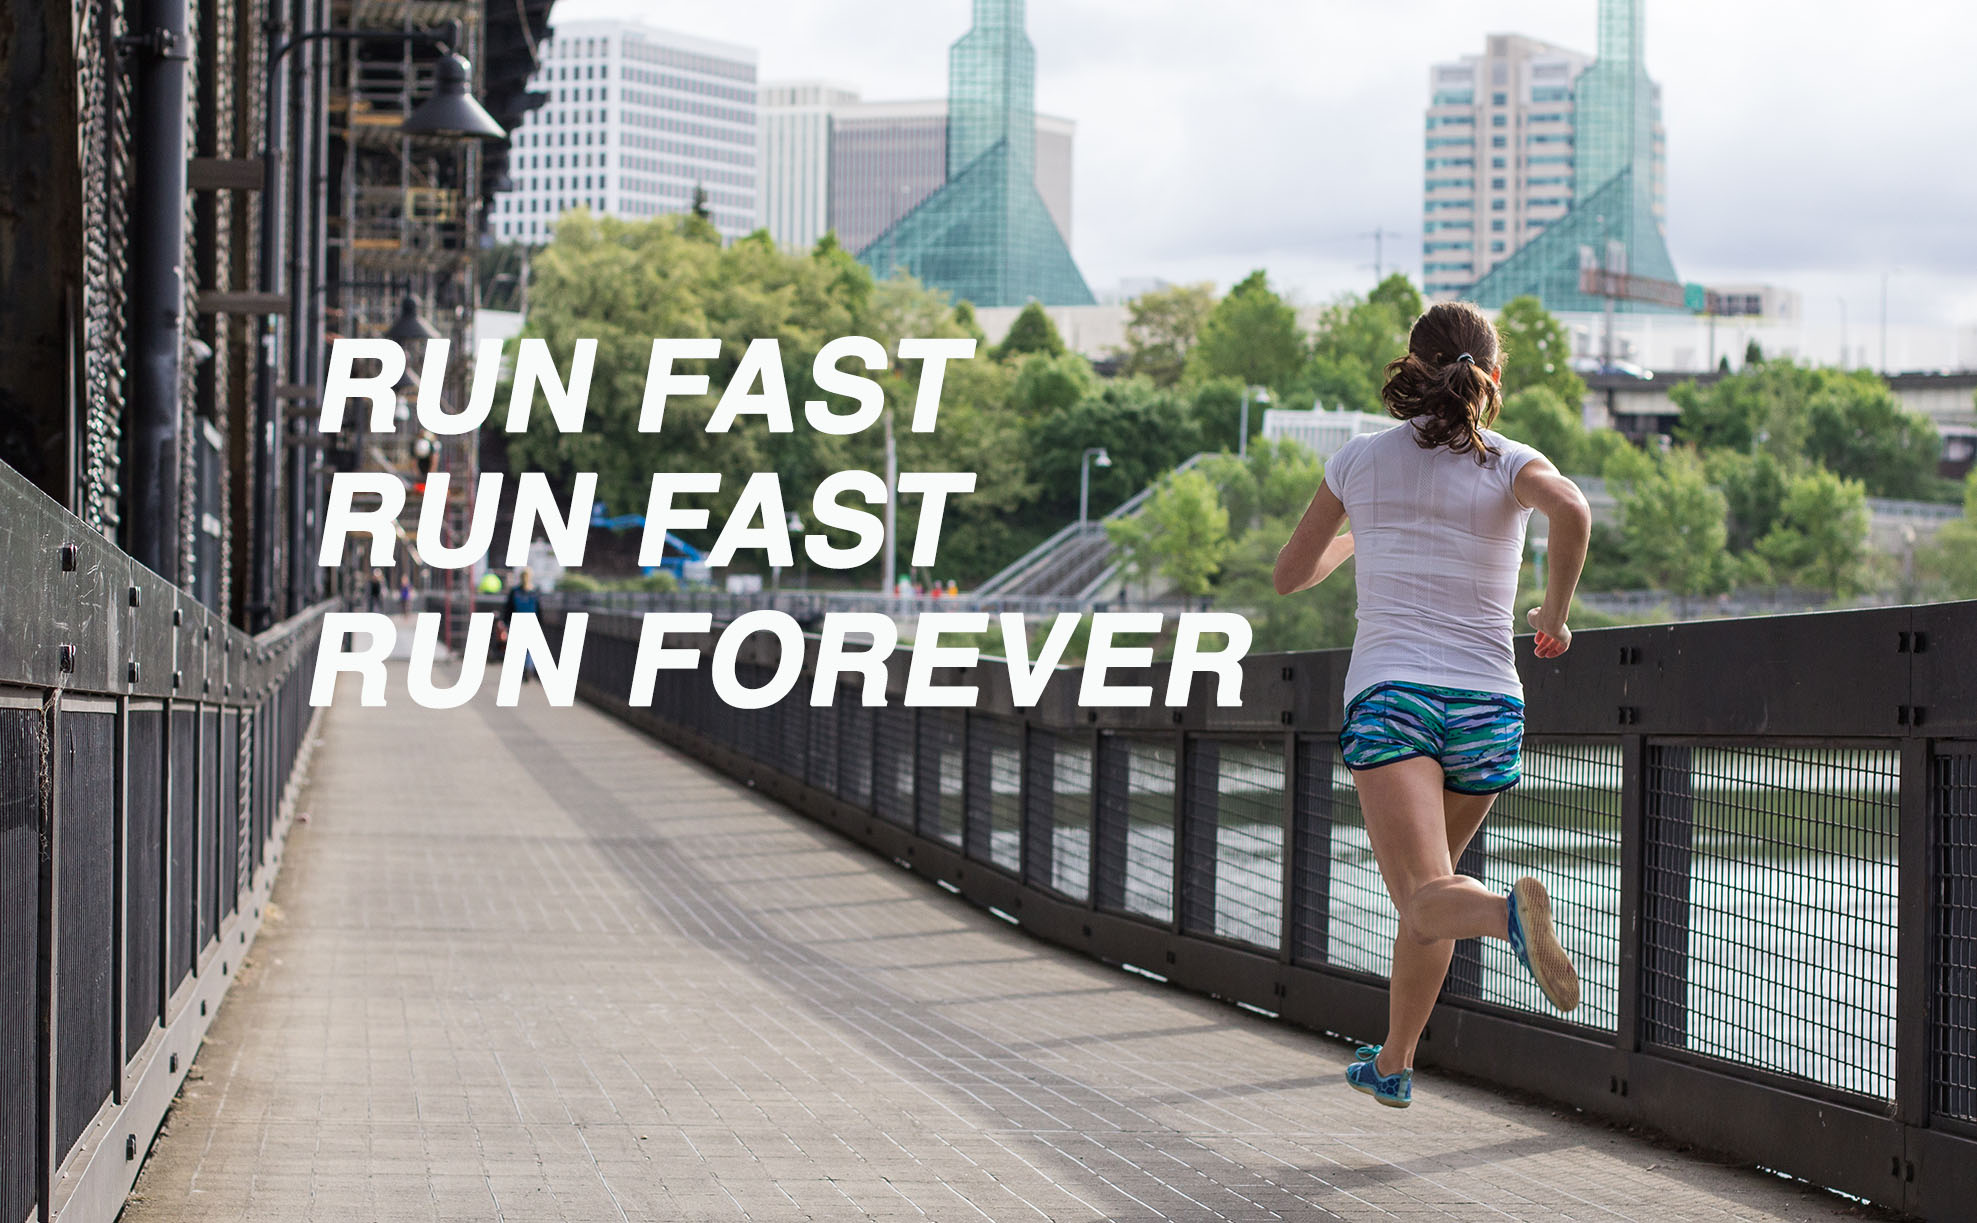
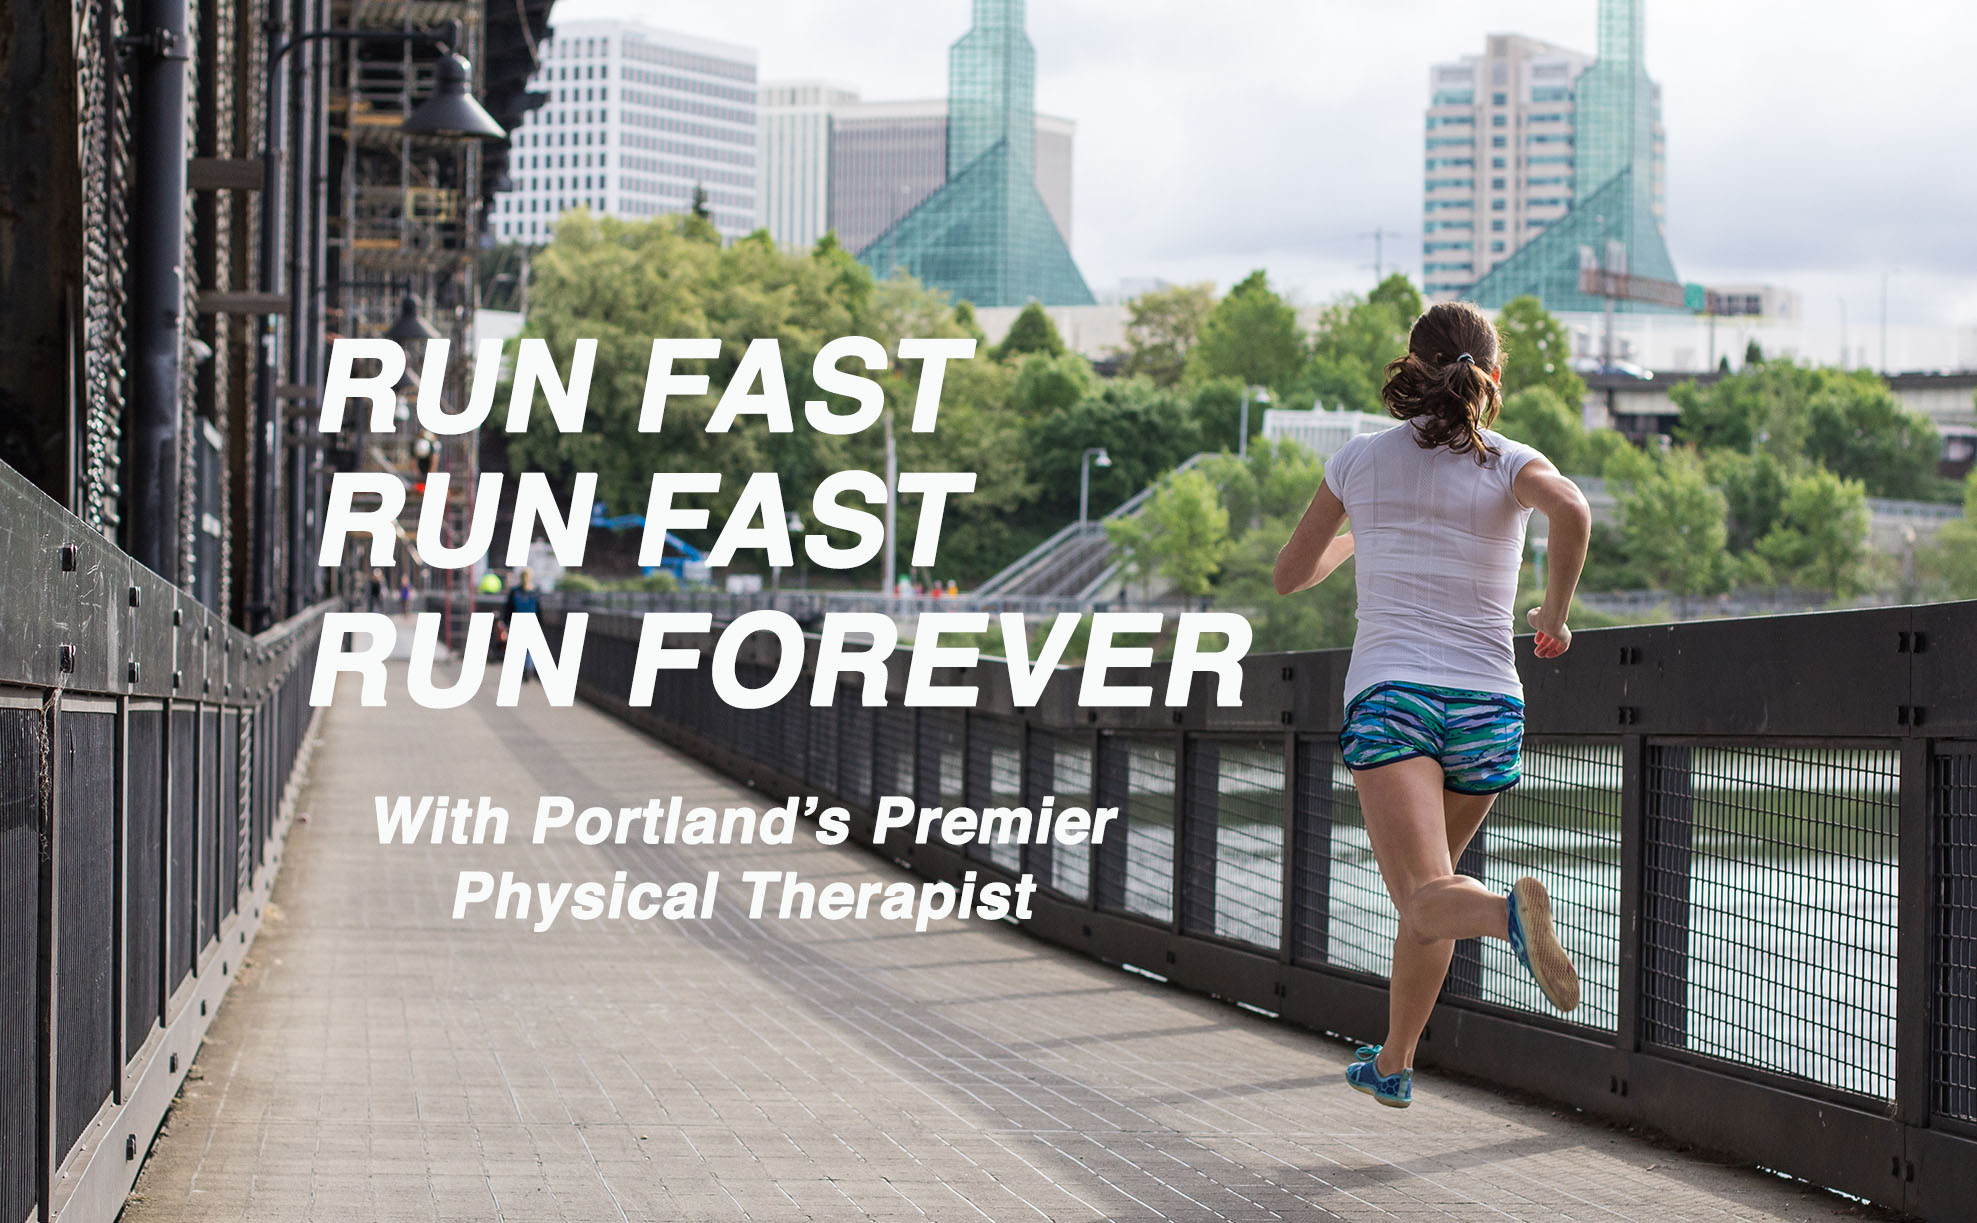
finished up with the header

Changed region(s): [[0.1851, 0.6525, 0.5862, 0.7768]]

diff --git a/index.html b/index.html
@@ -77,27 +77,26 @@
 				<!-- START REVOLUTION SLIDER 5.0 auto mode -->
 				<div id="slider" class="rev_slider"  data-version="5.0">
 					<ul>	
+
 						<!-- SLIDE  -->
 						<li data-transition="fade" class="dark">
 							
 							<!-- MAIN IMAGE -->
-							<img src="assets/images/run-fast-modified.jpg"  alt="" >							
+							<img src="assets/images/run-fast-legs.jpg"  alt="" >							
 
 							<!-- LAYER NR. 1 -->
-							<div class="tp-caption BigBold-Title tp-resizeme rs-parallaxlevel-0" 							
-								 data-x="center" data-hoffset="80" 
-								 data-y="bottom" data-voffset="450" 							
+							<div class="tp-caption BigBold-Title tp-resizeme rs-parallaxlevel-0" 							 
+								 data-x="left" data-hoffset="80" 
+								 data-y="top" data-voffset="450" 							
 								 data-whitespace="normal"
 								 data-transform_idle="o:1;"			
 								 data-transform_in="o:0" 
 								 data-transform_out="o:0" 							 
 								 data-start="500" 							 							
 								>
-							</div>
-
-							
+							</div>						
 						</li>
-						
+
 						<!-- SLIDE  -->
 						<li data-transition="fade">
 							
@@ -135,6 +134,29 @@
 								>
 							</div>						
 						</li>
+
+						<!-- SLIDE  -->
+						<li data-transition="fade" class="dark">
+							
+							<!-- MAIN IMAGE -->
+							<img src="assets/images/run-fast-modified.jpg"  alt="" >							
+
+							<!-- LAYER NR. 1 -->
+							<div class="tp-caption BigBold-Title tp-resizeme rs-parallaxlevel-0" 							
+								 data-x="center" data-hoffset="80" 
+								 data-y="bottom" data-voffset="450" 							
+								 data-whitespace="normal"
+								 data-transform_idle="o:1;"			
+								 data-transform_in="o:0" 
+								 data-transform_out="o:0" 							 
+								 data-start="500" 							 							
+								>
+							</div>
+
+							
+						</li>
+
+
 					</ul>				
 				</div><!-- END REVOLUTION SLIDER -->
 			</div>
